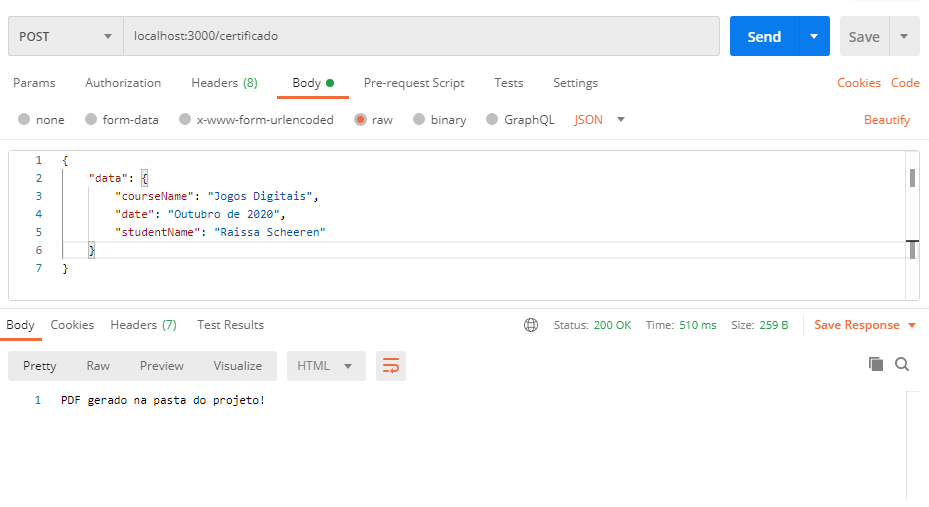
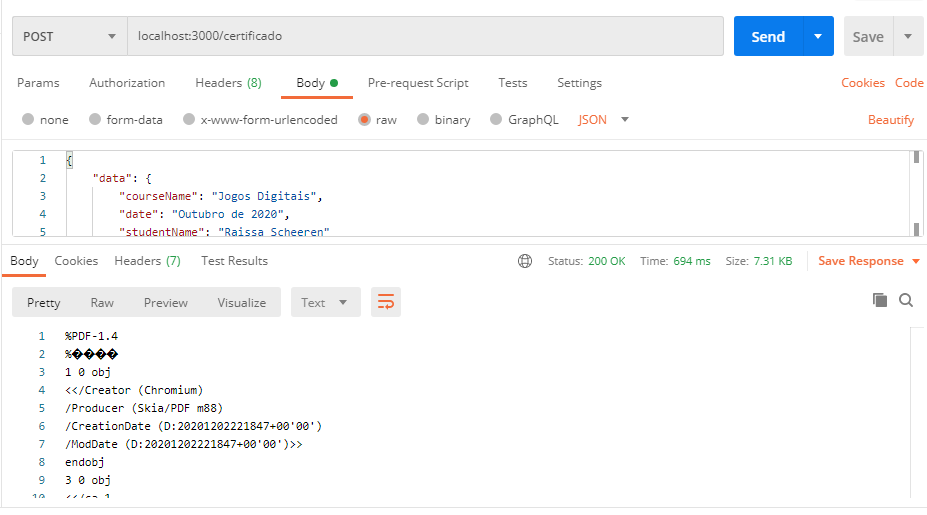
configurando download do certificado

diff --git a/index.js b/index.js
@@ -2,6 +2,7 @@ const express = require("express");
 const bodyParser = require("body-parser");
 const handlebars = require("express-handlebars");
 const puppeteer = require("puppeteer");
+const fs = require("fs");
 
 const app = express();
 app.use(express.static("public"));
@@ -40,12 +41,39 @@ app.post("/certificado", (req, res) => {
     function (err, html) {
       console.log(html);
       createPDF(html);
-      res.send("PDF gerado na pasta do projeto!");
+      var data = fs.readFileSync("./certificado.pdf");
+      res.contentType("application/pdf");
+      res.send(data);
     }
   );
 });
 
-const host = '0.0.0.0';
+app.get("/", (req, res) => {
+  /*let dados = {
+    courseName: "Jogos Digitais",
+    date: "Outubro de 2020",
+    studentName: "Raissa Scheeren",
+  };
+
+  res.render(
+    "main",
+    {
+      layout: "index",
+      dados: configuraDados(dados),
+      dadosExistem: true,
+    },
+    function (err, html) {
+      console.log(html);
+      createPDF(html);
+      var data = fs.readFileSync("./certificado.pdf");
+      res.contentType("application/pdf");
+      res.send(data);
+    }
+  );*/
+  res.download("./certificado.pdf");
+});
+
+const host = "0.0.0.0";
 const port = process.env.PORT || 3000;
 app.listen(port, host, function () {
   console.log(`App na porta ${port}`);

diff --git a/README.md b/README.md
@@ -2,7 +2,20 @@
 
 Esse projeto utiliza Node.js, Handlebars e Puppeteer.
 
-## Pra rodar
+## Pra rodar com Heroku
+
+Use o postman (ou similar) para executa um POST em https://gerador-certificado-pdf.herokuapp.com/certificado com um body nesta estrutura:  
+{  
+ "data": {  
+ "courseName": "Jogos Digitais",  
+ "date": "Outubro de 2020",  
+ "studentName": "Raissa Scheeren"  
+ }  
+}.  
+(Também há um exemplo em imagem no repositório).  
+Para fazer download pleo browser, faça F5 e o pop-up de download será aberto.
+
+## Pra rodar localmente
 
 Primeiramente, instale as dependências do projeto com "npm install".  
 Use o comando "node index.js".  
@@ -16,3 +29,4 @@ Use o postman (ou similar) para executa um POST em localhost:3000/certificado co
 }.  
 (Também há um exemplo em imagem no repositório).  
 O PDF será criado na pasta do projeto.
+Para fazer download pleo browser, faça F5 e o pop-up de download será aberto.
